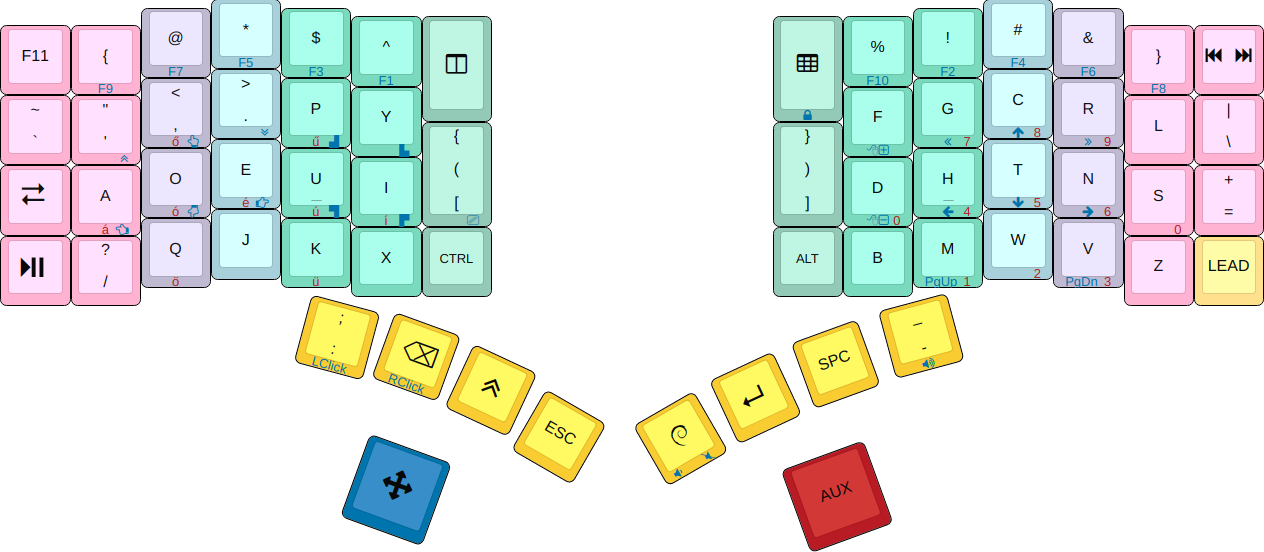
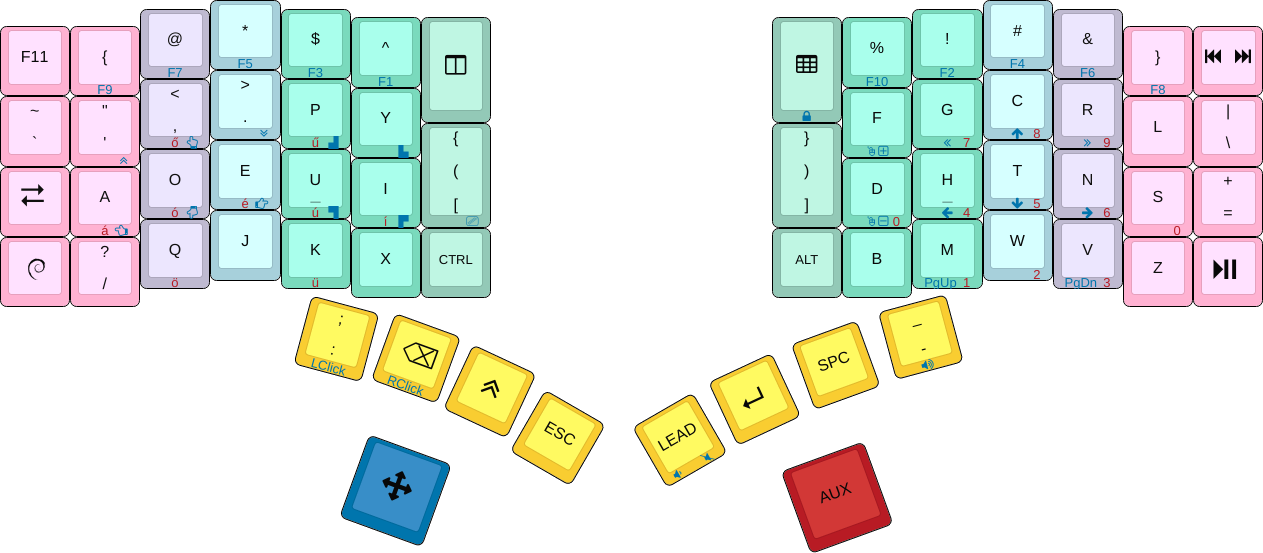
Small key rearrangement
The main reason for the move is that I need access to the `GUI` key from the
`NAV` layer. To this end, `GUI` has been moved to the left side, beside `Z`. The
`play/pause` key that was there, was moved to the right side, beside `J`. And
the `LEAD` key was therefore moved to the thumb cluster, where `GUI` used to be.

A similar change was applied to the `ADORE` layer too.

Images were updated, and the colormap now highlights `LEAD` and `GUI` too.

Fixes #40.

diff --git a/src/keymap.h b/src/keymap.h
@@ -70,17 +70,17 @@ const Key keymaps[][ROWS][COLS] PROGMEM = {
     TD(F11)       ,Key_LCB   ,Key_AT    ,Key_STAR   ,Key_DOLLR ,Key_CARET ,TD(TMUX)
    ,Key_Backtick  ,Key_Quote ,Key_Comma ,Key_Period ,Key_P     ,Key_Y     ,TD(LPB)
    ,Key_Tab       ,Key_A     ,Key_O     ,Key_E      ,Key_U     ,Key_I
-   ,Key_PlayPause ,Key_Slash ,Key_Q     ,Key_J      ,Key_K     ,Key_X     ,OSM(LeftControl)
+   ,TD(GUI)       ,Key_Slash ,Key_Q     ,Key_J      ,Key_K     ,Key_X     ,OSM(LeftControl)
 
-   ,TD(COLON) ,Key_Backspace ,OSM(LeftShift) ,Key_Escape
+   ,TD(COLON)  ,Key_Backspace ,OSM(LeftShift) ,Key_Escape
    ,OSL(_NAV)
 
    ,TD(TMUXP)    ,Key_PRCNT ,Key_EXCLM ,Key_HASH ,Key_AND ,Key_RCB ,TD(MNP)
    ,TD(RPB)      ,Key_F     ,Key_G     ,Key_C    ,Key_R   ,Key_L   ,Key_Backslash
                  ,Key_D     ,Key_H     ,Key_T    ,Key_N   ,Key_S   ,Key_Equals
-   ,OSM(LeftAlt) ,Key_B     ,Key_M     ,Key_W    ,Key_V   ,Key_Z   ,LEAD(MAIN)
+   ,OSM(LeftAlt) ,Key_B     ,Key_M     ,Key_W    ,Key_V   ,Key_Z   ,Key_PlayPause
 
-   ,TD(GUI) ,Key_Enter ,Key_Spacebar ,Key_Minus
+   ,LEAD(MAIN) ,Key_Enter ,Key_Spacebar ,Key_Minus
    ,OSL(_AUX)
   ),
 
@@ -89,17 +89,17 @@ const Key keymaps[][ROWS][COLS] PROGMEM = {
     TD(F11)       ,Key_LCB ,Key_AT ,Key_STAR  ,Key_DOLLR ,Key_CARET  ,TD(TMUX)
    ,Key_Backslash ,Key_X   ,Key_W  ,Key_C     ,Key_H     ,Key_F      ,TD(LPB)
    ,Key_Tab       ,Key_A   ,Key_O  ,Key_E     ,Key_I     ,Key_U
-   ,Key_PlayPause ,Key_Z   ,Key_Q  ,Key_Quote ,Key_Comma ,Key_Period ,OSM(LeftControl)
+   ,TD(GUI)       ,Key_Z   ,Key_Q  ,Key_Quote ,Key_Comma ,Key_Period ,OSM(LeftControl)
 
-   ,TD(COLON) ,Key_Backspace ,OSM(LeftShift) ,Key_Escape
+   ,TD(COLON)  ,Key_Backspace ,OSM(LeftShift) ,Key_Escape
    ,OSL(_NAV)
 
    ,TD(TMUXP)    ,Key_PRCNT ,Key_EXCLM ,Key_HASH ,Key_AND ,Key_RCB   ,TD(MNP)
    ,TD(RPB)      ,Key_M     ,Key_G     ,Key_L    ,Key_P   ,Key_Slash ,Key_Backslash
                  ,Key_D     ,Key_R     ,Key_T    ,Key_N   ,Key_S     ,Key_Equals
-   ,OSM(LeftAlt) ,Key_B     ,Key_K     ,Key_V    ,Key_Y   ,Key_J     ,LEAD(MAIN)
+   ,OSM(LeftAlt) ,Key_B     ,Key_K     ,Key_V    ,Key_Y   ,Key_J     ,Key_PlayPause
 
-   ,Key_LeftGui ,Key_Enter ,Key_Spacebar ,Key_Minus
+   ,LEAD(Main) ,Key_Enter ,Key_Spacebar ,Key_Minus
    ,OSL(_AUX)
   ),
 
@@ -108,7 +108,7 @@ const Key keymaps[][ROWS][COLS] PROGMEM = {
     ___ ,Key_F9 ,Key_F7 ,Key_F5 ,Key_F3 ,Key_F1 ,XXX
    ,XXX ,MS_SUP ,MM(Up) ,MS_SDN ,MW(NW) ,MW(NE) ,MW(End)
    ,XXX ,MM(L)  ,MM(Dn) ,MM(R)  ,MW(SW) ,MW(SE)
-   ,XXX ,XXX    ,XXX    ,XXX    ,XXX    ,XXX    ,___
+   ,___ ,XXX    ,XXX    ,XXX    ,XXX    ,XXX    ,XXX
 
    ,MM(BtnL) ,MM(BtnR) ,___ ,___
    ,___
@@ -127,7 +127,7 @@ const Key keymaps[][ROWS][COLS] PROGMEM = {
     XXX ,XXX       ,XXX        ,XXX       ,XXX        ,XXX       ,XXX
    ,XXX ,XXX       ,R(HUN_ODA) ,XXX       ,R(HUN_UDA) ,XXX       ,XXX
    ,XXX ,R(HUN_AA) ,R(HUN_OA)  ,R(HUN_EA) ,R(HUN_UA)  ,R(HUN_IA)
-   ,___ ,XXX       ,R(HUN_OU)  ,XXX       ,R(HUN_UU)  ,XXX       ,XXX
+   ,XXX ,XXX       ,R(HUN_OU)  ,XXX       ,R(HUN_UU)  ,XXX       ,XXX
 
    ,XXX ,___ ,___ ,___
    ,OSL(_EMPTY)
